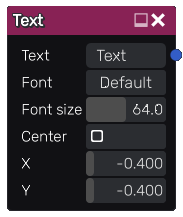
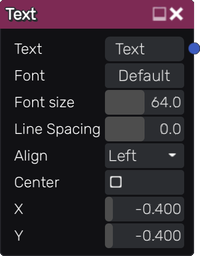
Add support for multiple lines in text node

diff --git a/material_maker/doc/node_simple_text.rst b/material_maker/doc/node_simple_text.rst
@@ -1,7 +1,10 @@
 Text node
 ~~~~~~~~~
 
-The text node outputs a single texture that shows a text.
+The text node outputs a single texture that shows a text. New lines
+can be added by using the '\n' character (without single quotes).
+
+Right clicking on the text box will also bring up a text editor.
 
 .. image:: images/node_simple_text.png
 	:align: center
@@ -26,6 +29,10 @@ The text node accepts the following parameters:
 * the font (both TTF and OTF formats are supported)
 
 * the font size
+
+* the (extra, can be negative) line spacing, if there are multiple lines
+
+* horizontal alignment(left, right or center) of the text
 
 * whether the text is centered
 
